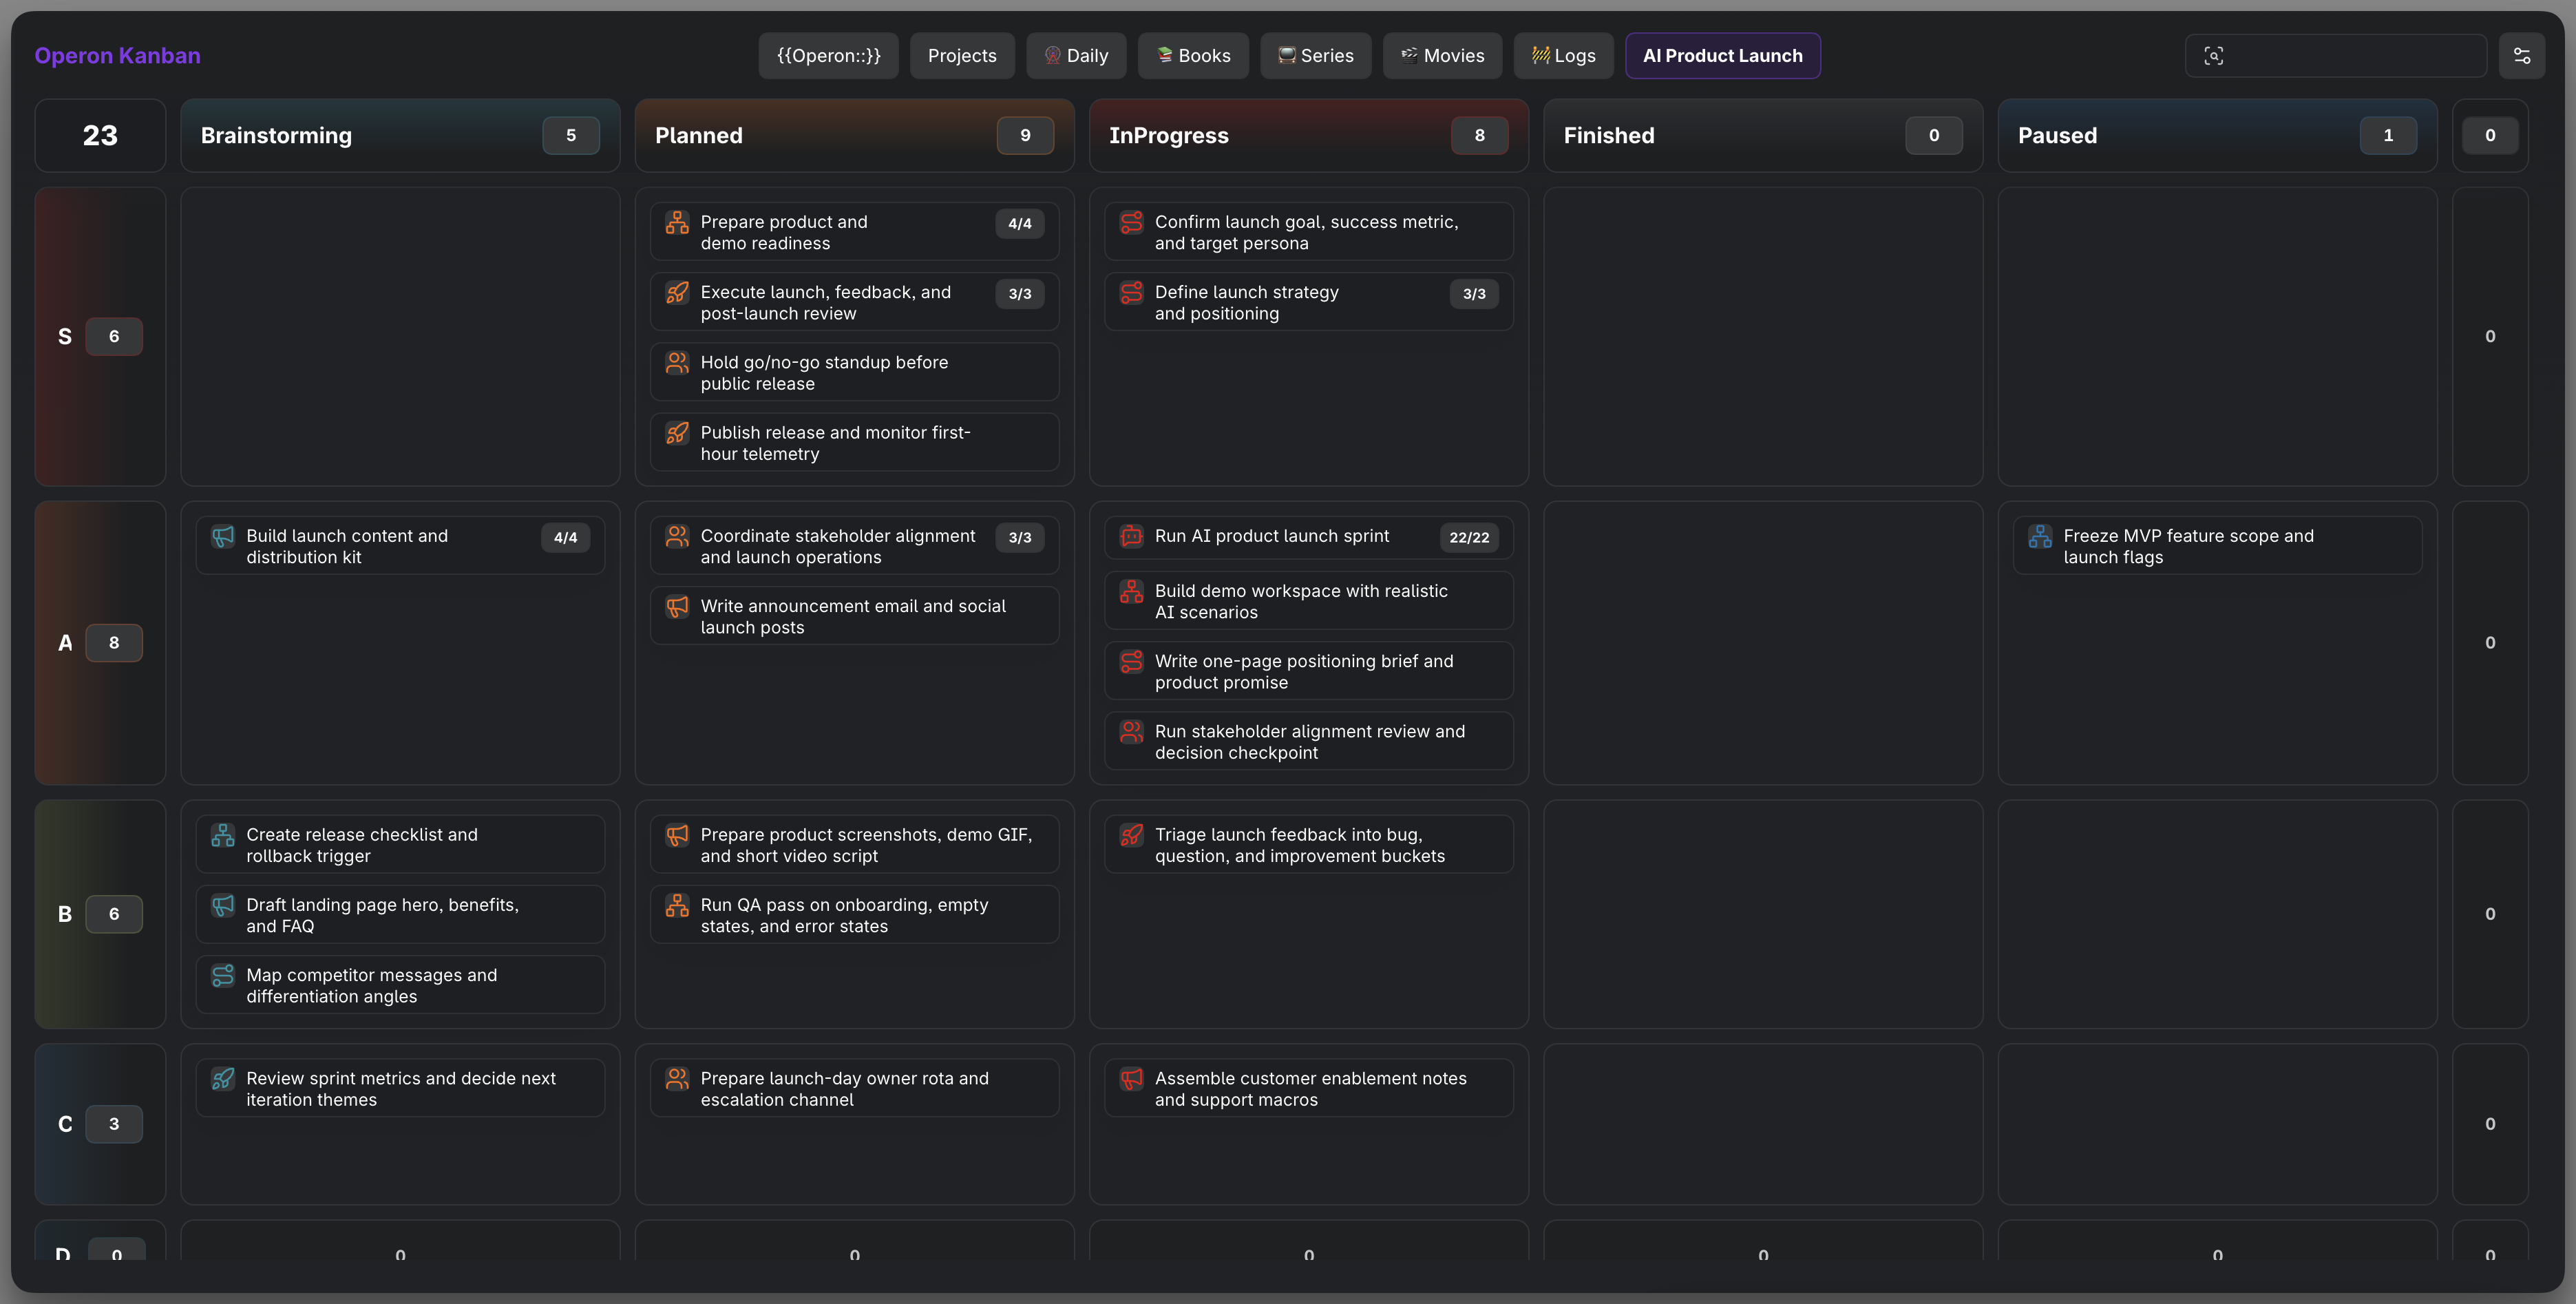
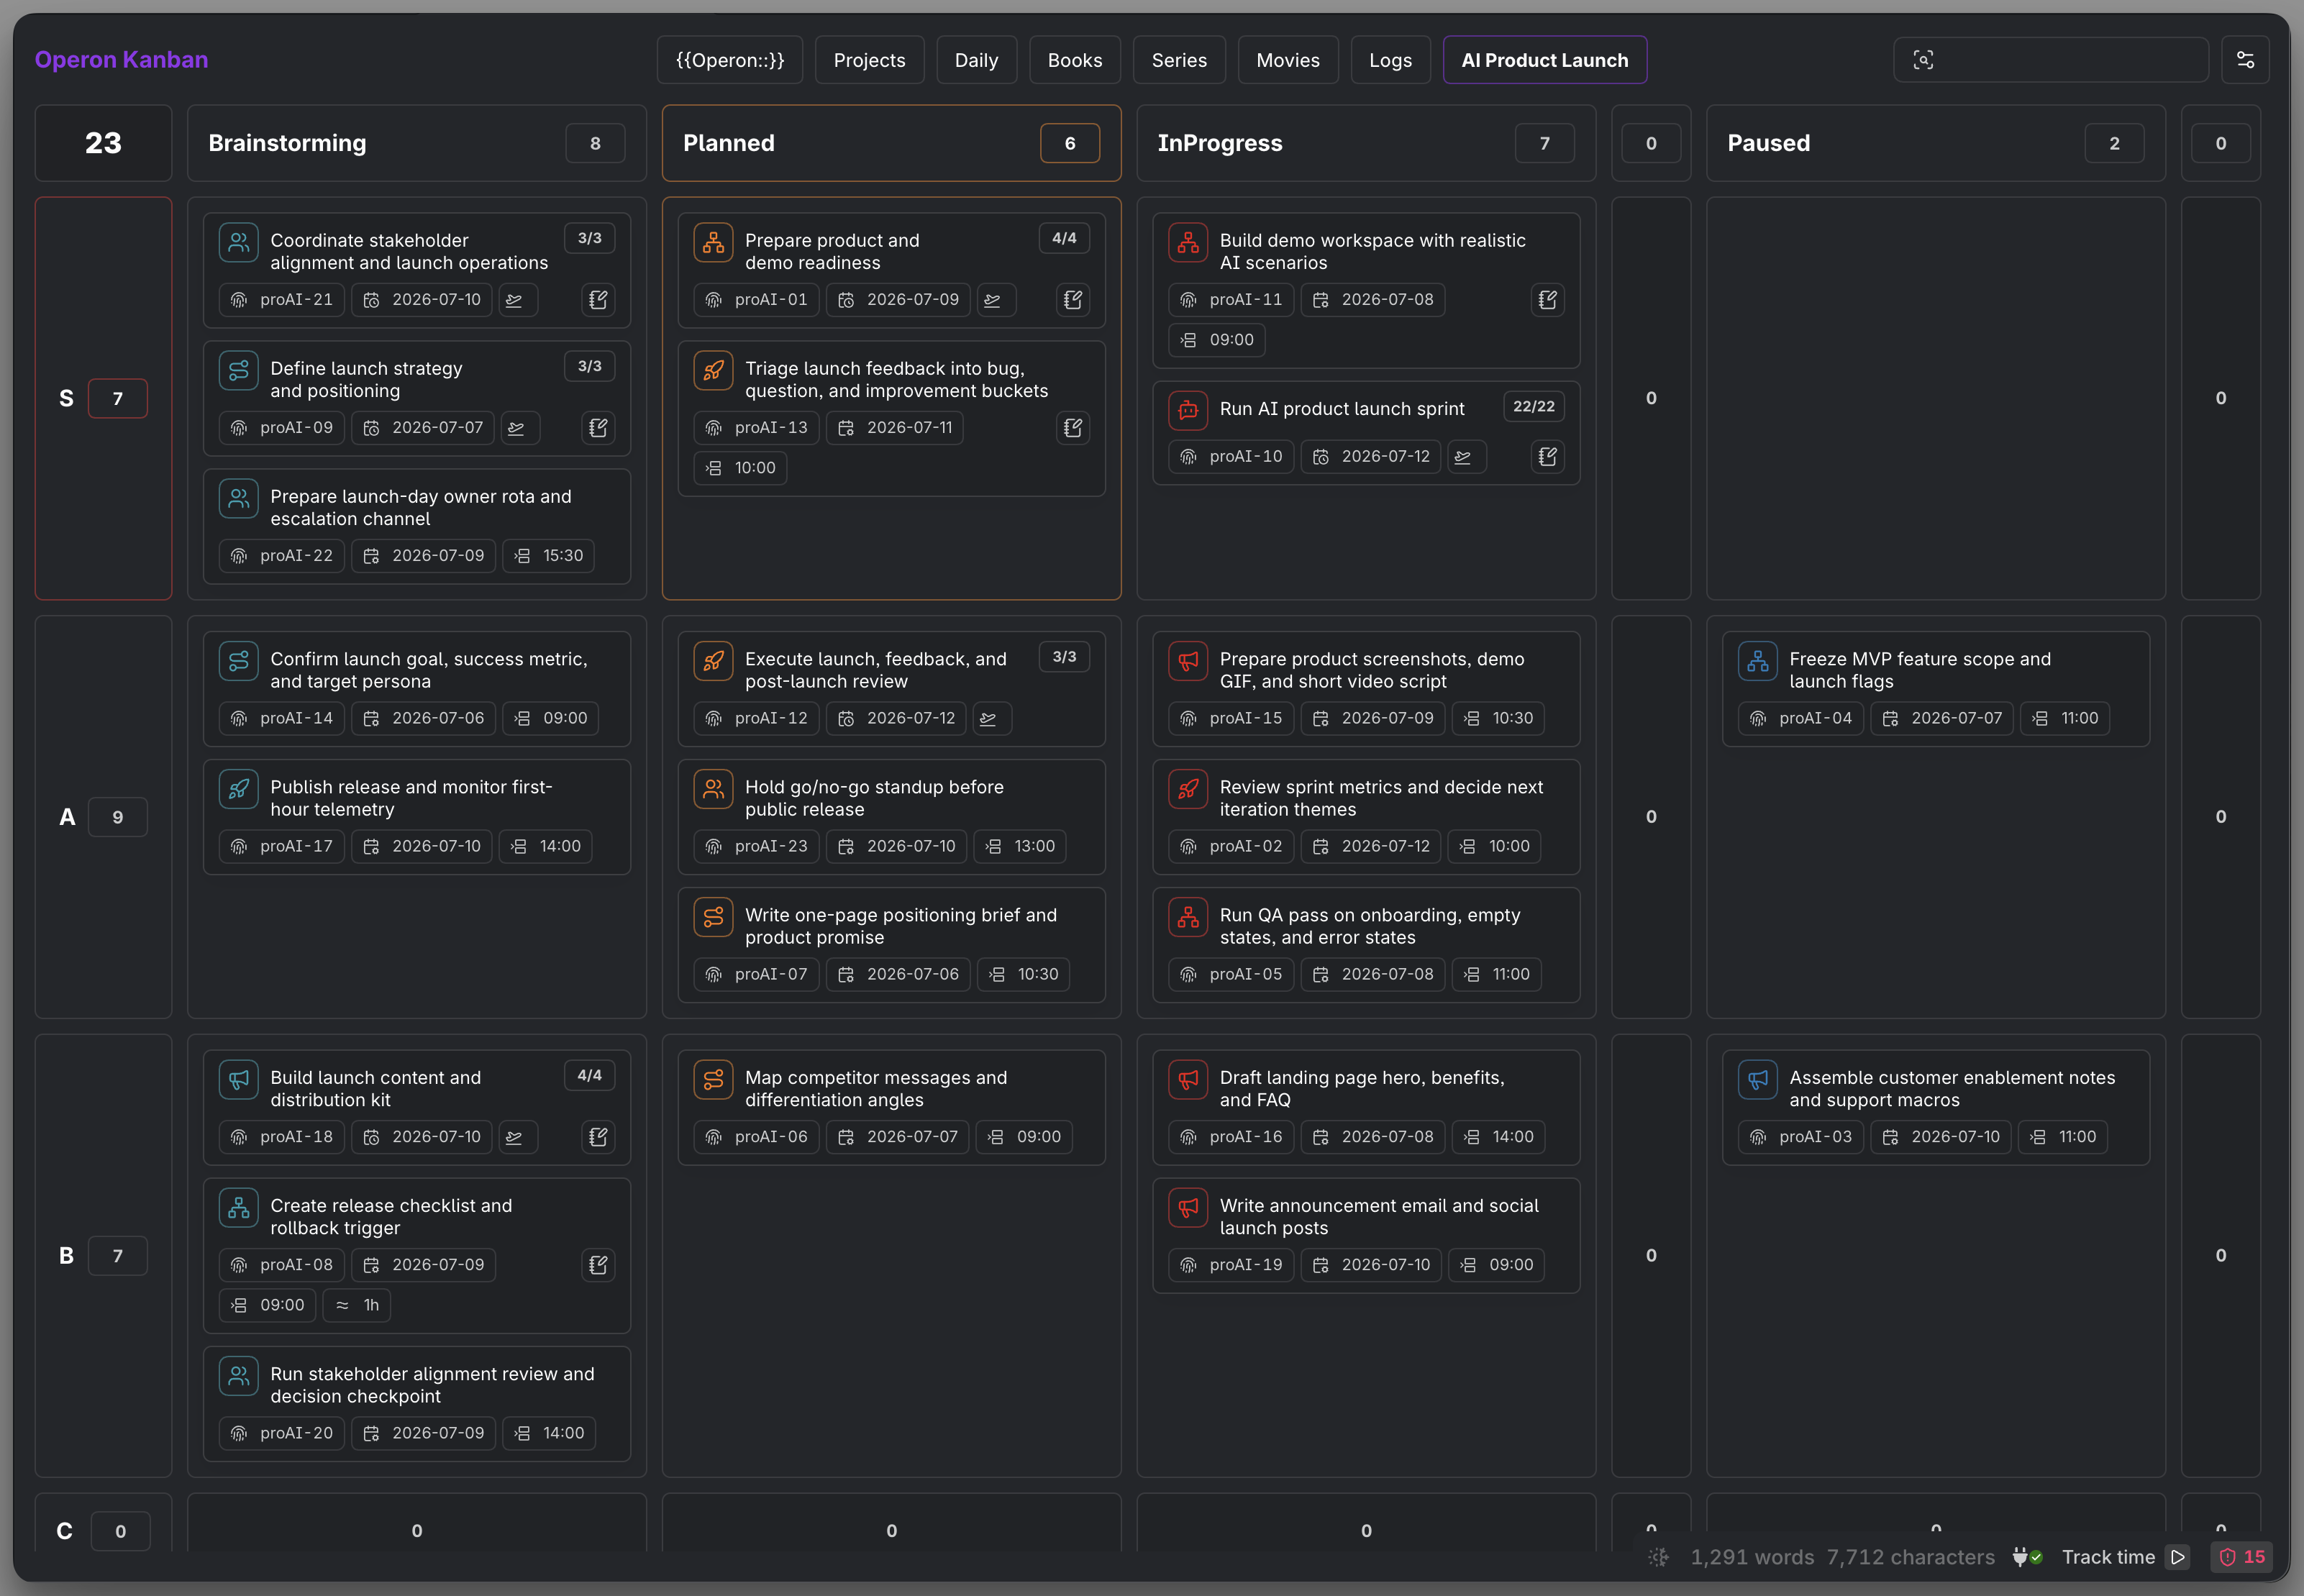
Update Operon docs package

diff --git a/docs/operon-docs/DOCS-030 Kanban overview.md b/docs/operon-docs/DOCS-030 Kanban overview.md
@@ -10,7 +10,7 @@ tags:
   - operon
   - kanban
   - plan
-Updated: 2026-06-28T18:48:40
+Updated: 2026-07-01T15:39:14
 ---
 
 # Kanban overview
@@ -19,9 +19,9 @@ The Kanban shows your tasks as cards in columns by status. It is the best surfac
 
 Open it with **Operon Kanban** from the command palette.
 
-> **MEDIA-DOCS-030-1:** The Operon Kanban with cards spread across status columns.
+> **MEDIA-DOCS-030-1:** The Operon Kanban with task chips visible on cards across status columns.
 
-![MEDIA-DOCS-030-1 - The Operon Kanban with cards spread across status columns](https://raw.githubusercontent.com/hasanyilmaz/operon/main/docs/media/MEDIA-DOCS-030-1.png)
+![MEDIA-DOCS-030-1 - The Operon Kanban with task chips visible on cards across status columns](https://raw.githubusercontent.com/hasanyilmaz/operon/main/docs/media/MEDIA-DOCS-030-1.png)
 
 ## How the board is built
 
@@ -30,6 +30,31 @@ The columns come from your pipeline: each status in the pipeline is a column, an
 You can also split the board into **swimlanes**, horizontal rows that group cards by another field such as priority, assignee, context, or a date. With swimlanes on, each card sits where its status column meets its lane, which is how you see, say, what is in progress *per person* or *per priority* at a glance. See [[DOCS-074 Kanban swimlanes|Kanban swimlanes]].
 
 A board is shaped by a **Kanban preset**, which chooses the pipeline, the swimlane field, the sort order, the card color source, and an optional filter that limits which tasks appear. Saving presets lets you keep several boards for different pipelines or slices of work, and switch between them. See [[DOCS-037 Pipelines and statuses|Pipelines and statuses]].
+
+## Card chips and actions
+
+Kanban cards can show [[DOCS-041 Task chips display and behavior|Task Chips]] under the title, so priority, dates, assignees, location, links, recurrence, and custom fields can be scanned without opening the card. The **Kanban Task Chips** settings page controls which normal chips appear, their order, and which are Icon Only.
+
+> **MEDIA-DOCS-030-2:** The Kanban Task Chips settings page, showing the card chip list and the Kanban Task Actions section.
+
+![MEDIA-DOCS-030-2 - Kanban Task Chips settings with card chips and action controls](https://raw.githubusercontent.com/hasanyilmaz/operon/main/docs/media/MEDIA-DOCS-030-2.png)
+
+If a task has a Project Serial, the serial appears first as a display-only identity chip on the main card, independent of the normal chip visibility settings. Kanban does not show hidden-chip overflow counts, so the row only shows the card chips you chose to display.
+
+Kanban also has a **Kanban Task Actions** section at the end of the same settings page. Those controls can add compact action chips at the trailing edge of the card chip row, such as Play, Pin, Note, Add subtask, and Open checkboxes. On desktop, enabled action chips are usable from the card. The Play action changes to Stop when that task's timer is already running. On mobile, the same card chip area stays visible but read-only, so card tap, scroll, and drag gestures stay predictable.
+
+Main cards can grow a little when chips wrap onto multiple lines; descendant preview cards stay compact and do not show chip rows.
+
+> **MEDIA-DOCS-030-3:** Kanban cards in action, with task chips, trailing action chips, an active timer shown as Stop, and the active column and swimlane highlighted.
+
+<iframe
+  title="MEDIA-DOCS-030-3 - Kanban cards in action video"
+  width="100%"
+  height="420"
+  src="https://www.youtube-nocookie.com/embed/9YjQEgOSoWQ"
+  allow="accelerometer; autoplay; clipboard-write; encrypted-media; gyroscope; picture-in-picture; web-share"
+  allowfullscreen>
+</iframe>
 
 ## Moving a card changes the task
 
@@ -94,7 +119,7 @@ For exactly which fields are matched and how Task Finder ranks its own results, 
 
 ## Settings
 
-Operon settings for this live in **Settings → Operon → Views → Kanban**, which configures how the Kanban board displays cards.
+Operon settings for the board live in **Settings → Operon → Views → Kanban**, which configures how the Kanban board displays cards. Card chip visibility and order live in **Settings → Operon → Interface → Task Chips → Kanban Task Chips**.
 
 ## Related
 

diff --git a/docs/operon-docs/DOCS-041 Task chips display and behavior.md b/docs/operon-docs/DOCS-041 Task chips display and behavior.md
@@ -11,7 +11,7 @@ tags:
   - settings
   - chips
   - configure
-Updated: 2026-06-28T18:10:47
+Updated: 2026-07-01T15:29:10
 ---
 
 # Task chips: display and behavior
@@ -39,11 +39,12 @@ Your own [[DOCS-040 Custom keys|custom keys]] can appear as chips too, when you 
 
 ## Each surface is configured separately
 
-Chips follow a task across several surfaces, and each surface has its **own** chip configuration: which chips show, in what **order**, and whether any is **Icon Only**. So a busy Filter View can carry a shorter set than an inline row, arranged differently. The four surfaces, each its own settings page under **Settings → Operon → Interface → Task Chips**, are:
+Chips follow a task across several surfaces, and each surface has its **own** chip configuration: which chips show, in what **order**, and whether any is **Icon Only**. So a busy Filter View can carry a shorter set than an inline row, arranged differently. The five surfaces, each its own settings page under **Settings → Operon → Interface → Task Chips**, are:
 
 - **Inline Task Chips**: the compact chip row on inline tasks in Live Preview and reading view.
 - **Filter Task Chips**: the chips on rows in the [[DOCS-025 Filter View|Filter View]].
 - **Task Finder Chips**: the chips in Task Finder results.
+- **Kanban Task Chips**: the chips on main cards in the [[DOCS-030 Kanban overview|Kanban]].
 - **Task Wikilink Overlay Chips**: the chips on a task wikilink overlay, which now decorates both file-task links and inline links written as `[[File#-operonId]]`. See [[DOCS-103 Task Wikilink Overlay|Task Wikilink Overlay]].
 
 Because each is independent, you tune the chip row per place rather than once for everything.
@@ -54,11 +55,19 @@ Because each is independent, you tune the chip row per place rather than once fo
 
 ## Showing, hiding, and Icon Only
 
-For each chip on each surface you can turn its visibility on or off, and set it to **Icon Only**, which drops the text and shows just the icon, a tidy way to keep a busy row compact while still signalling the field. An Icon Only chip can show a small preview of its full content when you click it, so nothing is lost by hiding the text.
+For each chip on each surface you can turn its visibility on or off, and set it to **Icon Only**, which drops the text and shows just the icon, a tidy way to keep a busy row compact while still signalling the field. On interactive surfaces, an Icon Only chip can show a small preview of its full content when you click it, so nothing is lost by hiding the text.
+
+## Kanban card chips
+
+Kanban cards use the **Kanban Task Chips** surface. On desktop, Kanban chips behave like the same chips elsewhere: editable chips open their pickers, link-like chips open or preview their target, and location chips open the map popover. Kanban does not show hidden-chip `+N` counts, so a card only shows the chips you chose to display.
+
+The end of the Kanban Task Chips page also has **Kanban Task Actions**. These control the trailing action chips on Kanban cards, such as Play, Pin, Note, Add subtask, and Open checkboxes. When the Play action is enabled, it turns into Stop while that task's timer is running.
+
+On mobile Kanban, the same chip area stays visible but read-only. Tapping chips or action chips does not open pickers, links, previews, map popovers, or actions, so card tap, scroll, and long-press drag remain the main touch gestures. If a task has a Project Serial, that serial appears first on the main Kanban card as a display-only identity chip, even though Project Serial is not controlled by the Kanban Task Chips settings list. Descendant preview cards do not show chip rows.
 
 ## How a chip behaves when you click it
 
-Clicking a chip does something specific to its field. Some chips are quick editors, and some are navigators:
+On interactive surfaces, clicking a chip does something specific to its field. Some chips are quick editors, and some are navigators:
 
 | Chip | Clicking it |
 |---|---|
@@ -111,13 +120,15 @@ A custom key shown as a chip inherits the behavior of its type. A custom **list*
 
 ## Settings
 
-Chip configuration lives in **Settings → Operon → Interface → Task Chips**, with a separate page for each surface: **Inline Task Chips**, **Filter Task Chips**, **Task Finder Chips**, and **Task Wikilink Overlay Chips**. On each you set which chips show, their order, and which are Icon Only. The location chip's rendered map preview is configured in **Settings → Operon → Interface → Location Map**.
+Chip configuration lives in **Settings → Operon → Interface → Task Chips**, with a separate page for each surface: **Inline Task Chips**, **Filter Task Chips**, **Task Finder Chips**, **Kanban Task Chips**, and **Task Wikilink Overlay Chips**. On each you set which chips show, their order, and which are Icon Only. The location chip's rendered map preview is configured in **Settings → Operon → Interface → Location Map**.
 
 ## FAQ
 
 **Can I show only icons to save space?** Yes. Set a chip to Icon Only, and it shows its icon without the text; click it to preview the full content.
 
 **Can the same chips differ between Filter View and inline tasks?** Yes. Each surface has its own visibility, order, and Icon Only settings.
+
+**Do Kanban chips work on mobile?** They are visible on mobile Kanban cards, but read-only. Use the card itself for opening, scrolling, and long-press dragging.
 
 **Why is my due date chip red or blue?** Red means overdue, blue means due today. A finished or cancelled task drops the color.
 

diff --git a/docs/operon-docs/DOCS-100 Mobile Kanban.md b/docs/operon-docs/DOCS-100 Mobile Kanban.md
@@ -11,14 +11,14 @@ tags:
   - kanban
   - mobile
   - plan
-Updated: 2026-06-25T16:47:21
+Updated: 2026-07-01T15:29:10
 ---
 
 # Mobile Kanban
 
 On a phone, a full [[DOCS-030 Kanban overview|Kanban]] board is too wide to use comfortably, so Operon switches it to a **touch-first layout** built for a narrow screen. It is the same board, with the same columns and [[DOCS-074 Kanban swimlanes|swimlanes]], but the way you move through it is tuned for a thumb instead of a mouse. This page covers what changes on mobile and the settings that shape it.
 
-> **MEDIA-DOCS-100-1:** A Kanban board on a phone, showing one status column.
+> **MEDIA-DOCS-100-1:** A Kanban board on a phone.
 
 ![MEDIA-DOCS-100-1 - Mobile Kanban status column](https://raw.githubusercontent.com/hasanyilmaz/operon/main/docs/media/MEDIA-DOCS-100-1.png)
 
@@ -44,13 +44,19 @@ When the board is grouped into [[DOCS-074 Kanban swimlanes|swimlanes]], the mobi
 - **Mobile Kanban swimlane rail width** sets how wide that colored rail is, from 6 px (a slim stripe, the default) up to 48 px.
 - **Always show swimlane rail**, on by default, keeps the rail visible at all times. Turn it off and the rail appears only after you scroll horizontally, freeing a little more room until you need the cue.
 
+## Task chips on mobile cards
+
+Mobile Kanban uses the same **Kanban Task Chips** settings as desktop Kanban, so the chips you choose for cards stay visible on a phone too. On mobile they are read-only: tapping a chip does not open a picker, link, preview, location map, or action. Kanban cards do not show hidden-chip `+N` counts on mobile.
+
+That keeps card gestures predictable. Tap the card to open it, scroll the board normally, and long-press the card itself when you want to drag. If space is tight, use Icon Only or a shorter Kanban chip order in **Settings → Operon → Interface → Task Chips → Kanban Task Chips**.
+
 ## The quick-create button
 
 The mobile quick-create button (the floating plus) appears over Operon's mobile surfaces, including Kanban. If you would rather keep the board clear, you can **hide it while a Kanban view is active** without turning it off elsewhere. That toggle lives with the other mobile interface settings; see [[DOCS-101 Mobile General|Mobile General]].
 
 ## Settings
 
-Operon settings for this live in **Settings → Operon → Mobile → Kanban**: **Enable mobile Kanban layout**, the **layout max width** that decides when it applies, the **swimlane rail width**, **Always show swimlane rail**, and **horizontal status snap**. The setting to hide the quick-create button in Kanban is on the [[DOCS-101 Mobile General|Mobile General]] page.
+Operon settings for this live in **Settings → Operon → Mobile → Kanban**: **Enable mobile Kanban layout**, the **layout max width** that decides when it applies, the **swimlane rail width**, **Always show swimlane rail**, and **horizontal status snap**. Card chip visibility and order live in **Settings → Operon → Interface → Task Chips → Kanban Task Chips**. The setting to hide the quick-create button in Kanban is on the [[DOCS-101 Mobile General|Mobile General]] page.
 
 ## FAQ
 

diff --git a/docs/operon-docs/DOCS-097 Project serials.md b/docs/operon-docs/DOCS-097 Project serials.md
@@ -12,7 +12,7 @@ tags:
   - serial
   - projects
   - identity
-Updated: 2026-06-25T16:47:21
+Updated: 2026-07-01T15:33:43
 ---
 
 # Project serials
@@ -21,9 +21,9 @@ A **project serial** is a short, stable label like `PROD-0007` that Operon puts 
 
 They are **read-only and visual**. You never type a serial, you cannot edit the number, and turning serials on does not rewrite a single line of your notes. The serial sits on top of the task, a friendly name over the machine identity underneath.
 
-> **MEDIA-DOCS-097-1:** A task row showing its project serial chip, for example `PROD-0007`, next to the task text.
+> **MEDIA-DOCS-097-1:** Dynamic file task filter showing its Project Serial identity chip, before the normal task chips.
 
-![MEDIA-DOCS-097-1 - A task row showing its project serial chip, for example PROD-0007, next to the task text](https://raw.githubusercontent.com/hasanyilmaz/operon/main/docs/media/MEDIA-DOCS-097-1.png)
+![MEDIA-DOCS-097-1 - Dynamic file task filter showing its Project Serial identity chip before the normal task chips](https://raw.githubusercontent.com/hasanyilmaz/operon/main/docs/media/MEDIA-DOCS-097-1.png)
 
 ## Serials are not the operonId
 
@@ -89,7 +89,7 @@ When you add or rename a scope that **overlaps** another tree or **reuses a pref
 
 ## Where serials show up
 
-A serial appears as a **chip** on the task wherever the task is rendered: in [[DOCS-041 Task chips display and behavior|reading view and Live Preview]], on rows in the [[DOCS-025 Filter View|Filter View]], in the [[DOCS-021 Task Editor|Task Editor]], and in the calendar task picker. The chip is display only. There is nothing to click to edit, and nothing is written into the task text.
+A serial appears as a display-only **chip** on supported task surfaces: in [[DOCS-041 Task chips display and behavior|reading view and Live Preview]], on rows in the [[DOCS-025 Filter View|Filter View]], on main cards in the [[DOCS-030 Kanban overview|Kanban]], in the [[DOCS-021 Task Editor|Task Editor]], and in the calendar task picker. There is nothing to click to edit, and nothing is written into the task text.
 
 ## Stored apart from your notes
 